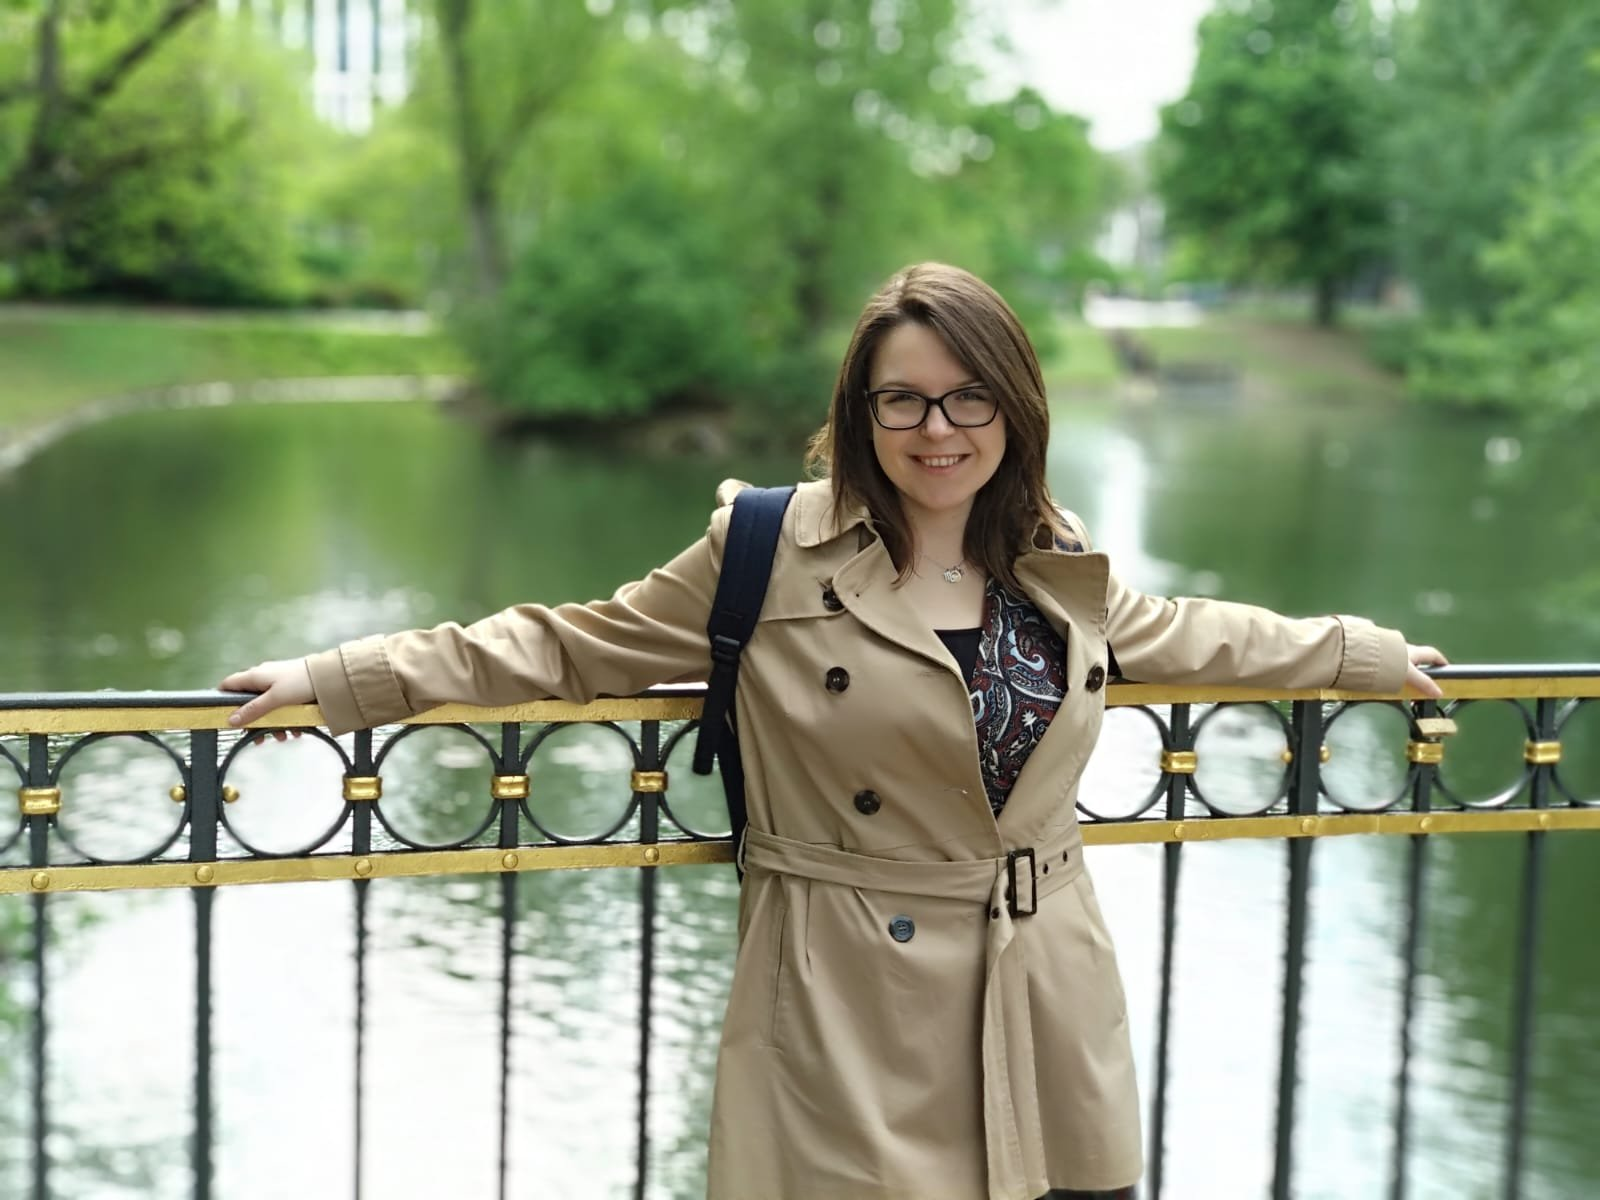
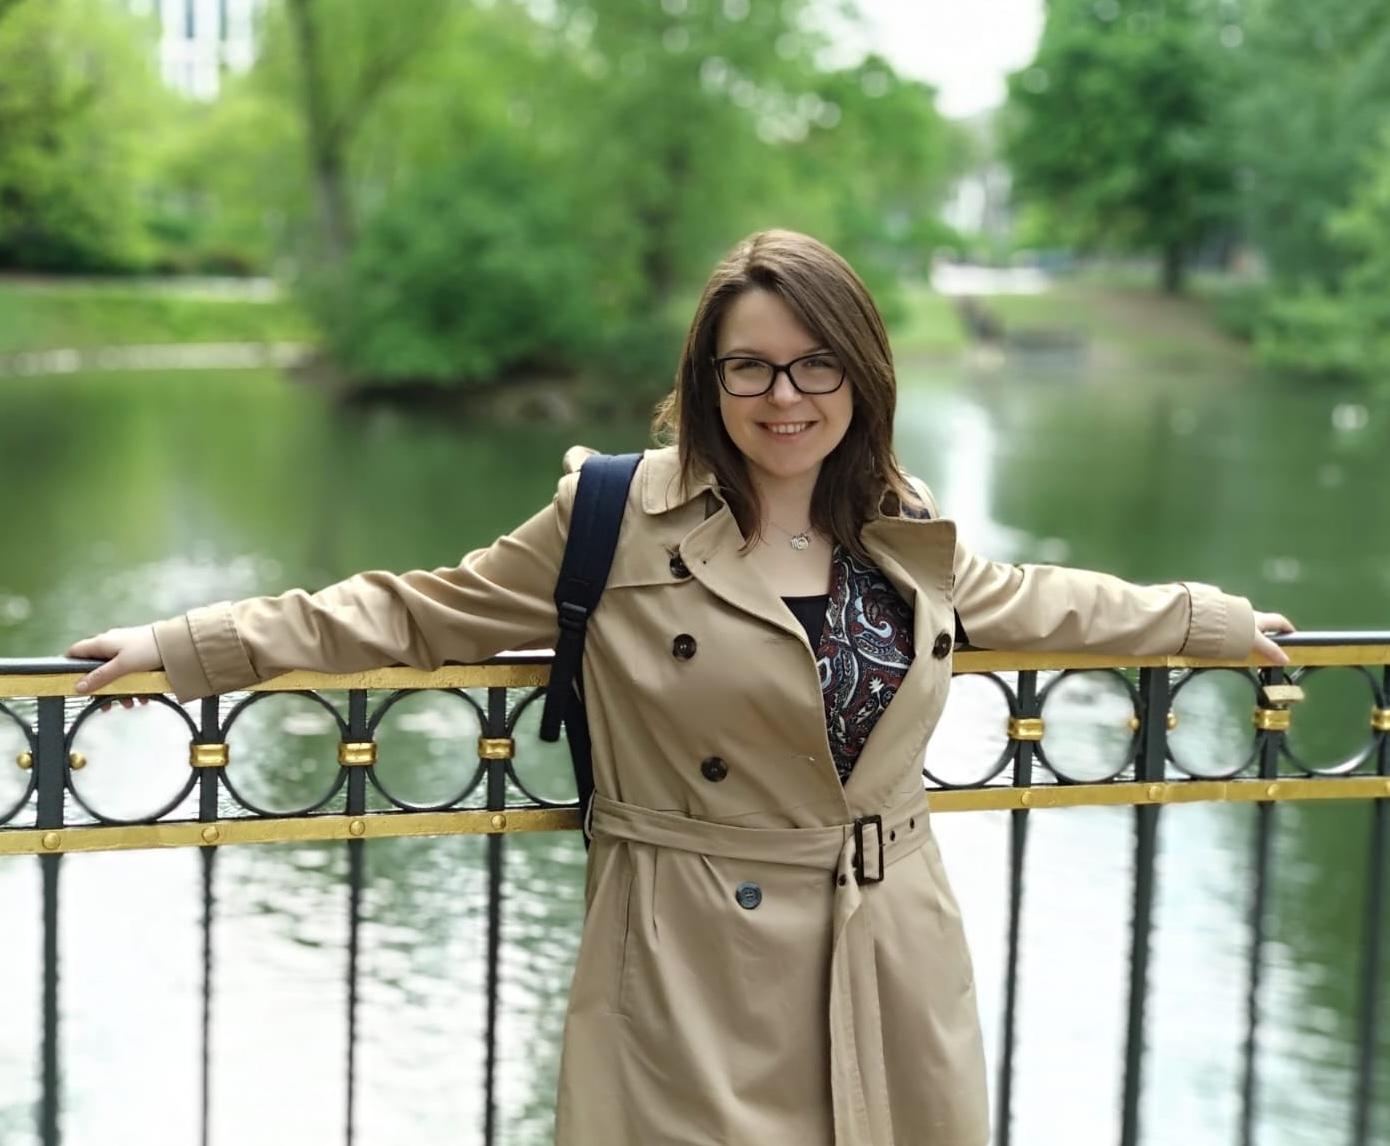
try4

diff --git a/assets/css/custom.scss b/assets/css/custom.scss
@@ -1,51 +1,46 @@
-/* Workshop Page Styles */
-.workshop-container {
-  max-width: 1200px;
-  margin: 0 auto;
-  padding: 2rem;
+.profile-card {
+  display: flex;
+  flex-direction: column;
+  align-items: center;
+  text-align: center;
+  max-width: 250px;
+  margin: 1rem;
+  border: 1px solid #ddd;
+  border-radius: 12px;
+  overflow: hidden;
+  padding: 1rem;
+  background-color: #fff;
+  box-shadow: 0 2px 6px rgba(0, 0, 0, 0.1);
 }
 
-/* Profile Image Fixes */
 .profile-img-container {
-  height: 200px; /* Fixed height for all speaker images */
   width: 100%;
+  max-width: 180px;
+  aspect-ratio: 1;
   overflow: hidden;
-  display: flex;
-  justify-content: center;
-  align-items: center;
-  background: #f5f5f5; /* Fallback background */
+  border-radius: 50%;
+  margin-bottom: 0.8rem;
 }
 
 .profile-img {
   width: 100%;
-  height: 100%;
+  height: auto;
   object-fit: cover;
-  object-position: top center; /* Ensures faces are always visible */
+  border-radius: 50%;
+  display: block;
 }
 
-/* Organizer specific styles */
-/* Add this to your custom.scss */
-.profile-card {
-  position: relative;
-  z-index: 1;
-  transition: all 0.3s cubic-bezier(0.25, 0.8, 0.25, 1);
-  border: 1px solid transparent;
+.profile-info {
+  padding: 0 0.5rem;
+}
 
-  &:hover {
-    transform: translateY(-5px) scale(1.02);
-    box-shadow:
-      0 14px 28px rgba(0, 0, 0, 0.1),
-      0 10px 10px rgba(0, 0, 0, 0.08);
-    border-color: rgba(0, 102, 204, 0.2);
+.profile-link {
+  display: inline-block;
+  margin-top: 0.4rem;
+  font-size: 0.9rem;
+  color: #007acc;
+}
 
-    /* Optional: Lighten image on hover */
-    .profile-img {
-      opacity: 0.9;
-    }
-  }
-
-  /* Smooth image transition */
-  .profile-img {
-    transition: opacity 0.3s ease;
-  }
+.profile-link i {
+  margin-right: 0.3rem;
 }
